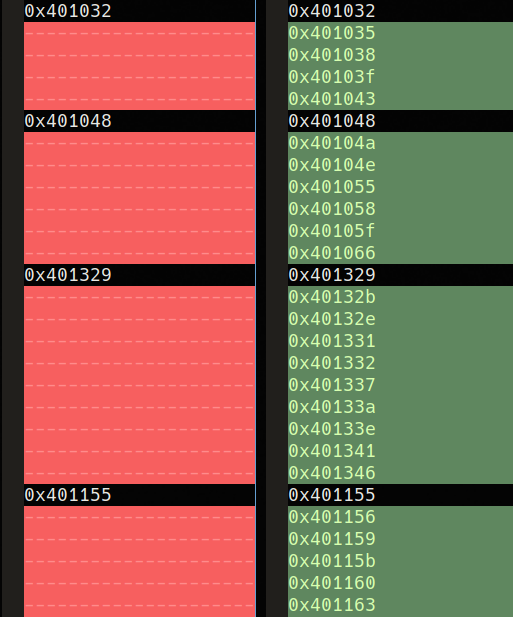
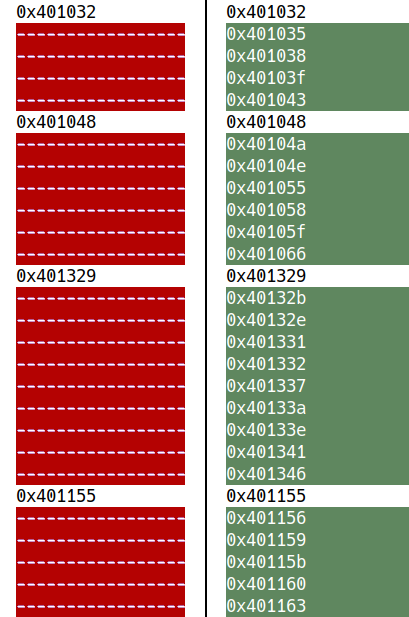
Update diff view of traces to light theme

diff --git a/chapters/design.tex b/chapters/design.tex
@@ -389,7 +389,7 @@ etc.
 
 \begin{figure}[htpb]
     \centering
-    \includegraphics[width=0.6\linewidth]{figures/trace_diff_view.png}
+    \includegraphics[width=0.5\linewidth]{figures/trace_diff_view.png}
     \caption{Different Program Trace Granularities}\label{fig:trace_granularity}
 \end{figure}
 
